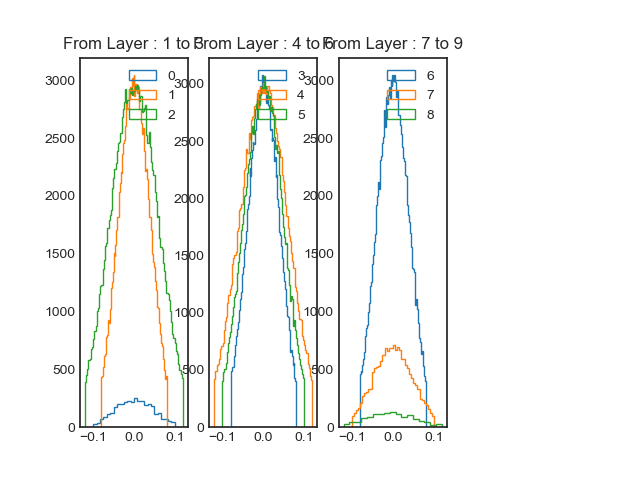
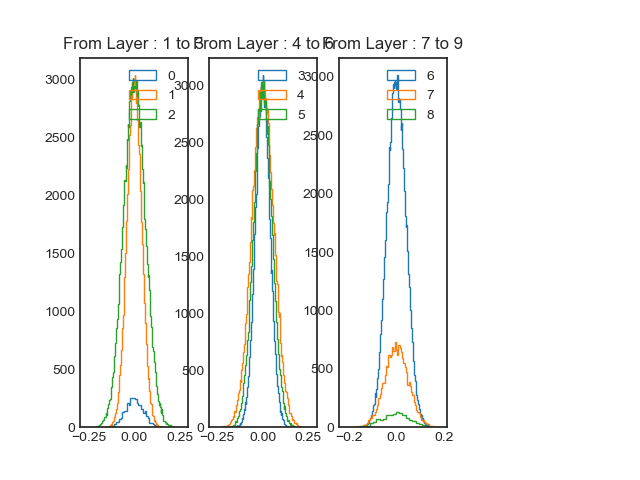
s

diff --git a/NeuralNetwork/Unfair/b.py b/NeuralNetwork/Unfair/b.py
@@ -91,21 +91,6 @@ def show_9_images(image,layer_num,image_num,channel_increase=3,alpha=None,gt=Non
 # ================= DATA AUGMENTATION =================
 # data aug
 seq = iaa.Sequential([
-    iaa.Sometimes(0.1,
-        iaa.Affine(
-            translate_percent={"x": (-0.2, 0.2), "y": (-0.2, 0.2)},
-        )
-    ),
-    iaa.Sometimes(0.1,
-        iaa.Affine(
-            rotate=(-25, 25),
-        )
-    ),
-    iaa.Sometimes(0.1,
-        iaa.Affine(
-            scale={"x": (0.8, 1.2), "y": (0.8, 1.2)},
-        )
-    ),
     iaa.Fliplr(1.0), # Horizonatl flips
 ], random_order=True) # apply augmenters in random order
 # ================= DATA AUGMENTATION =================

diff --git a/NeuralNetwork/Unfair/c.py b/NeuralNetwork/Unfair/c.py
@@ -91,21 +91,6 @@ def show_9_images(image,layer_num,image_num,channel_increase=3,alpha=None,gt=Non
 # ================= DATA AUGMENTATION =================
 # data aug
 seq = iaa.Sequential([
-    iaa.Sometimes(0.1,
-        iaa.Affine(
-            translate_percent={"x": (-0.2, 0.2), "y": (-0.2, 0.2)},
-        )
-    ),
-    iaa.Sometimes(0.1,
-        iaa.Affine(
-            rotate=(-25, 25),
-        )
-    ),
-    iaa.Sometimes(0.1,
-        iaa.Affine(
-            scale={"x": (0.8, 1.2), "y": (0.8, 1.2)},
-        )
-    ),
     iaa.Fliplr(1.0), # Horizonatl flips
 ], random_order=True) # apply augmenters in random order
 # ================= DATA AUGMENTATION =================
